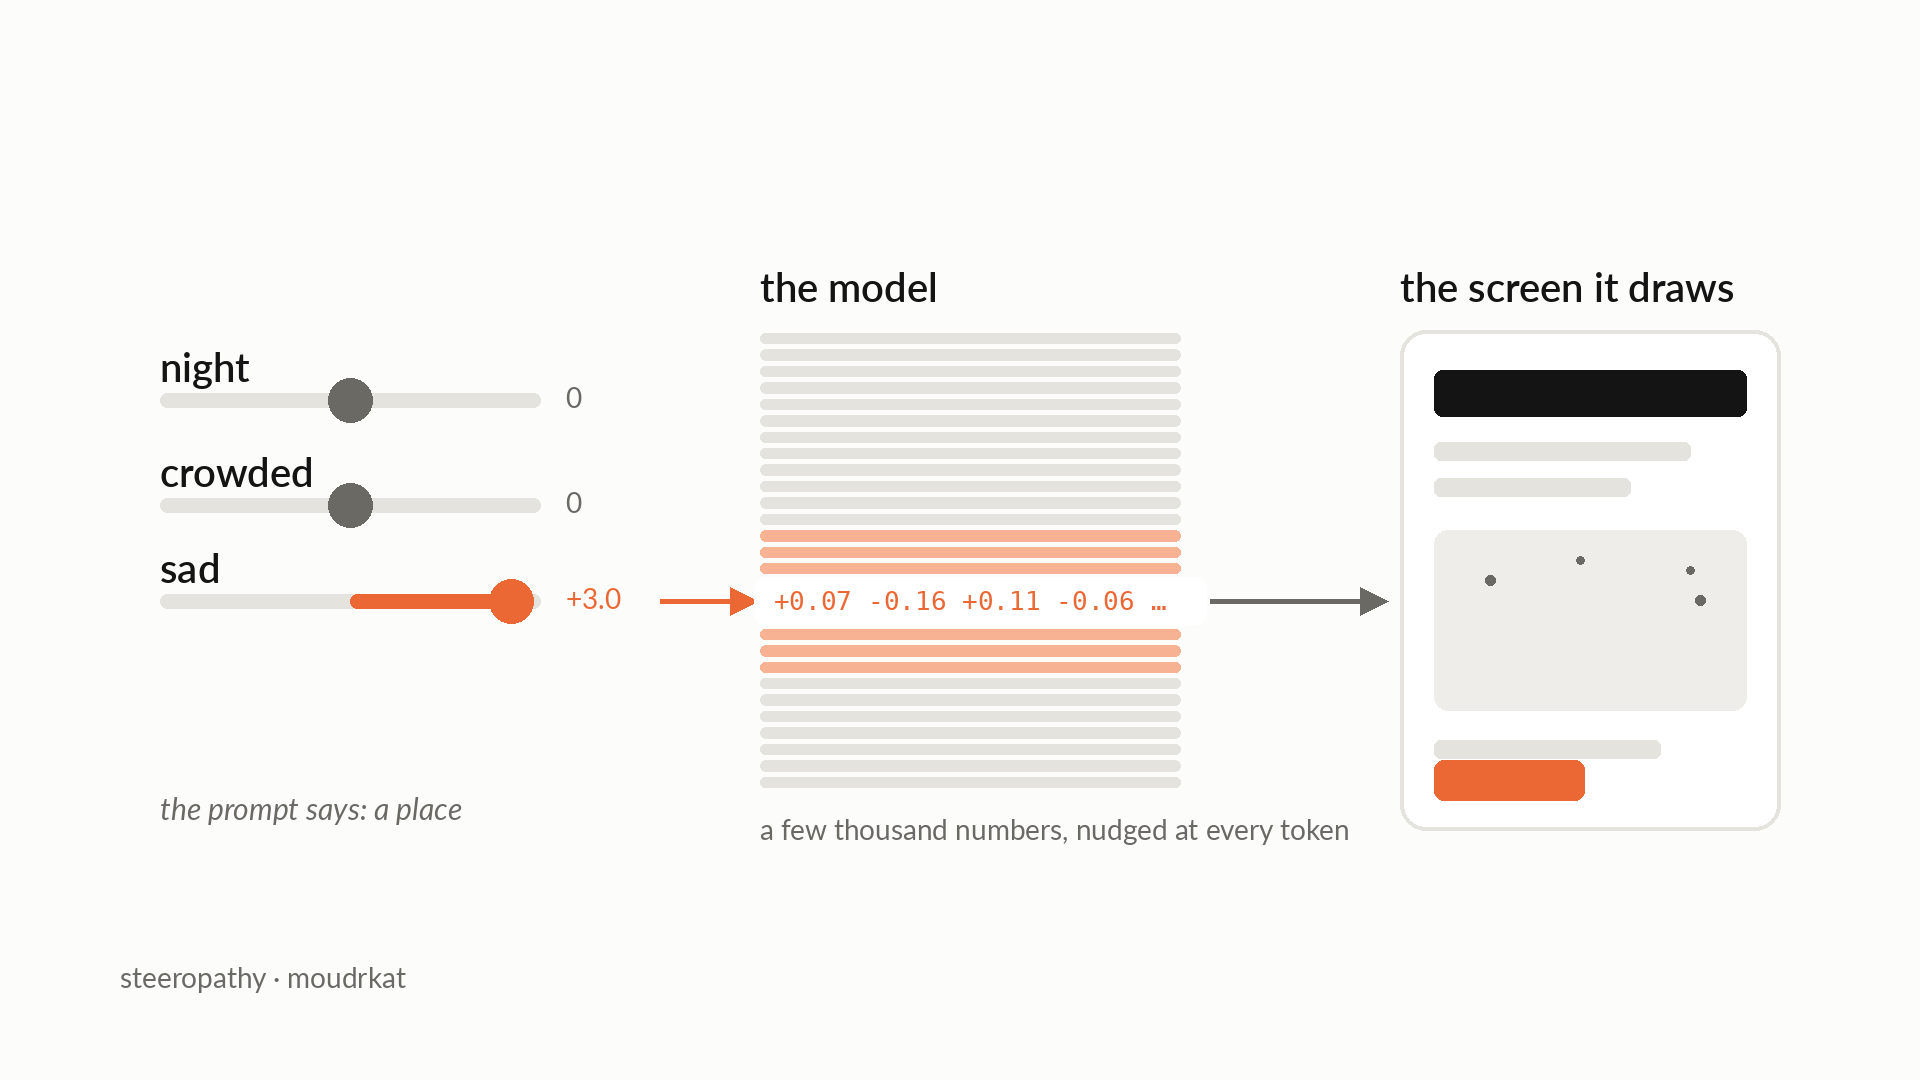
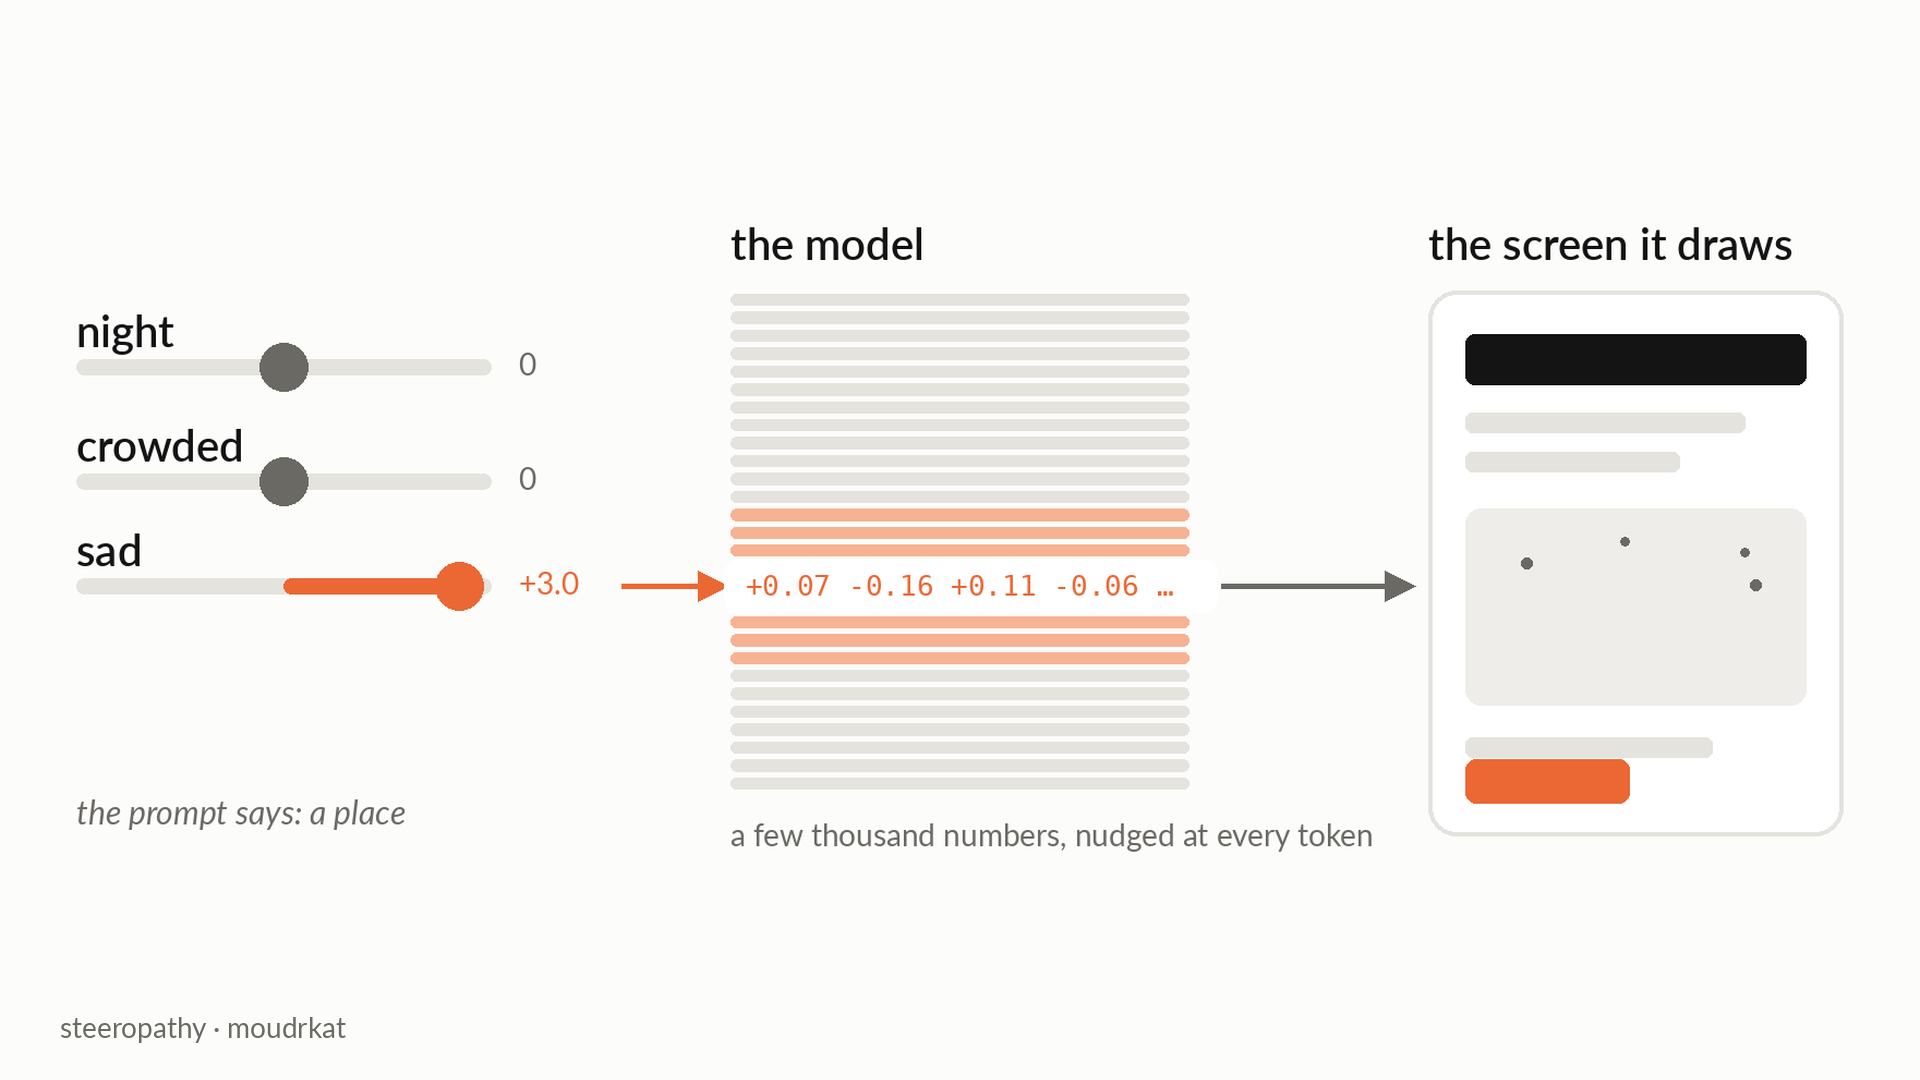
cover: fills the frame now

diff --git a/fig/render_cover.py b/fig/render_cover.py
@@ -91,7 +91,17 @@ def main():
     d.line([(mx1 + 30, ay), (sx0 - 40, ay)], fill=INK2, width=5)
     d.polygon([(sx0 - 40, ay - 14), (sx0 - 12, ay), (sx0 - 40, ay + 14)], fill=INK2)
 
-    d.text((120, 960), "steeropathy · moudrkat", fill=INK2, font=f_small)
+    # no title any more: crop to what is drawn, then fit it back into 16:9 so the cover is full
+    from PIL import ImageChops
+    bbox = ImageChops.difference(img, Image.new("RGB", (W, H), SURF)).getbbox()
+    m = 70
+    img = img.crop((max(0, bbox[0] - m), max(0, bbox[1] - m), min(W, bbox[2] + m), min(H, bbox[3] + m)))
+    scale = min(W / img.width, H / img.height)
+    img = img.resize((int(img.width * scale), int(img.height * scale)), Image.LANCZOS)
+    canvas = Image.new("RGB", (W, H), SURF)
+    canvas.paste(img, ((W - img.width) // 2, (H - img.height) // 2))
+    img = canvas
+    ImageDraw.Draw(img).text((60, H - 70), "steeropathy · moudrkat", fill=INK2, font=f_small)
     img.save(OUT)
     print(OUT, img.size)
 
